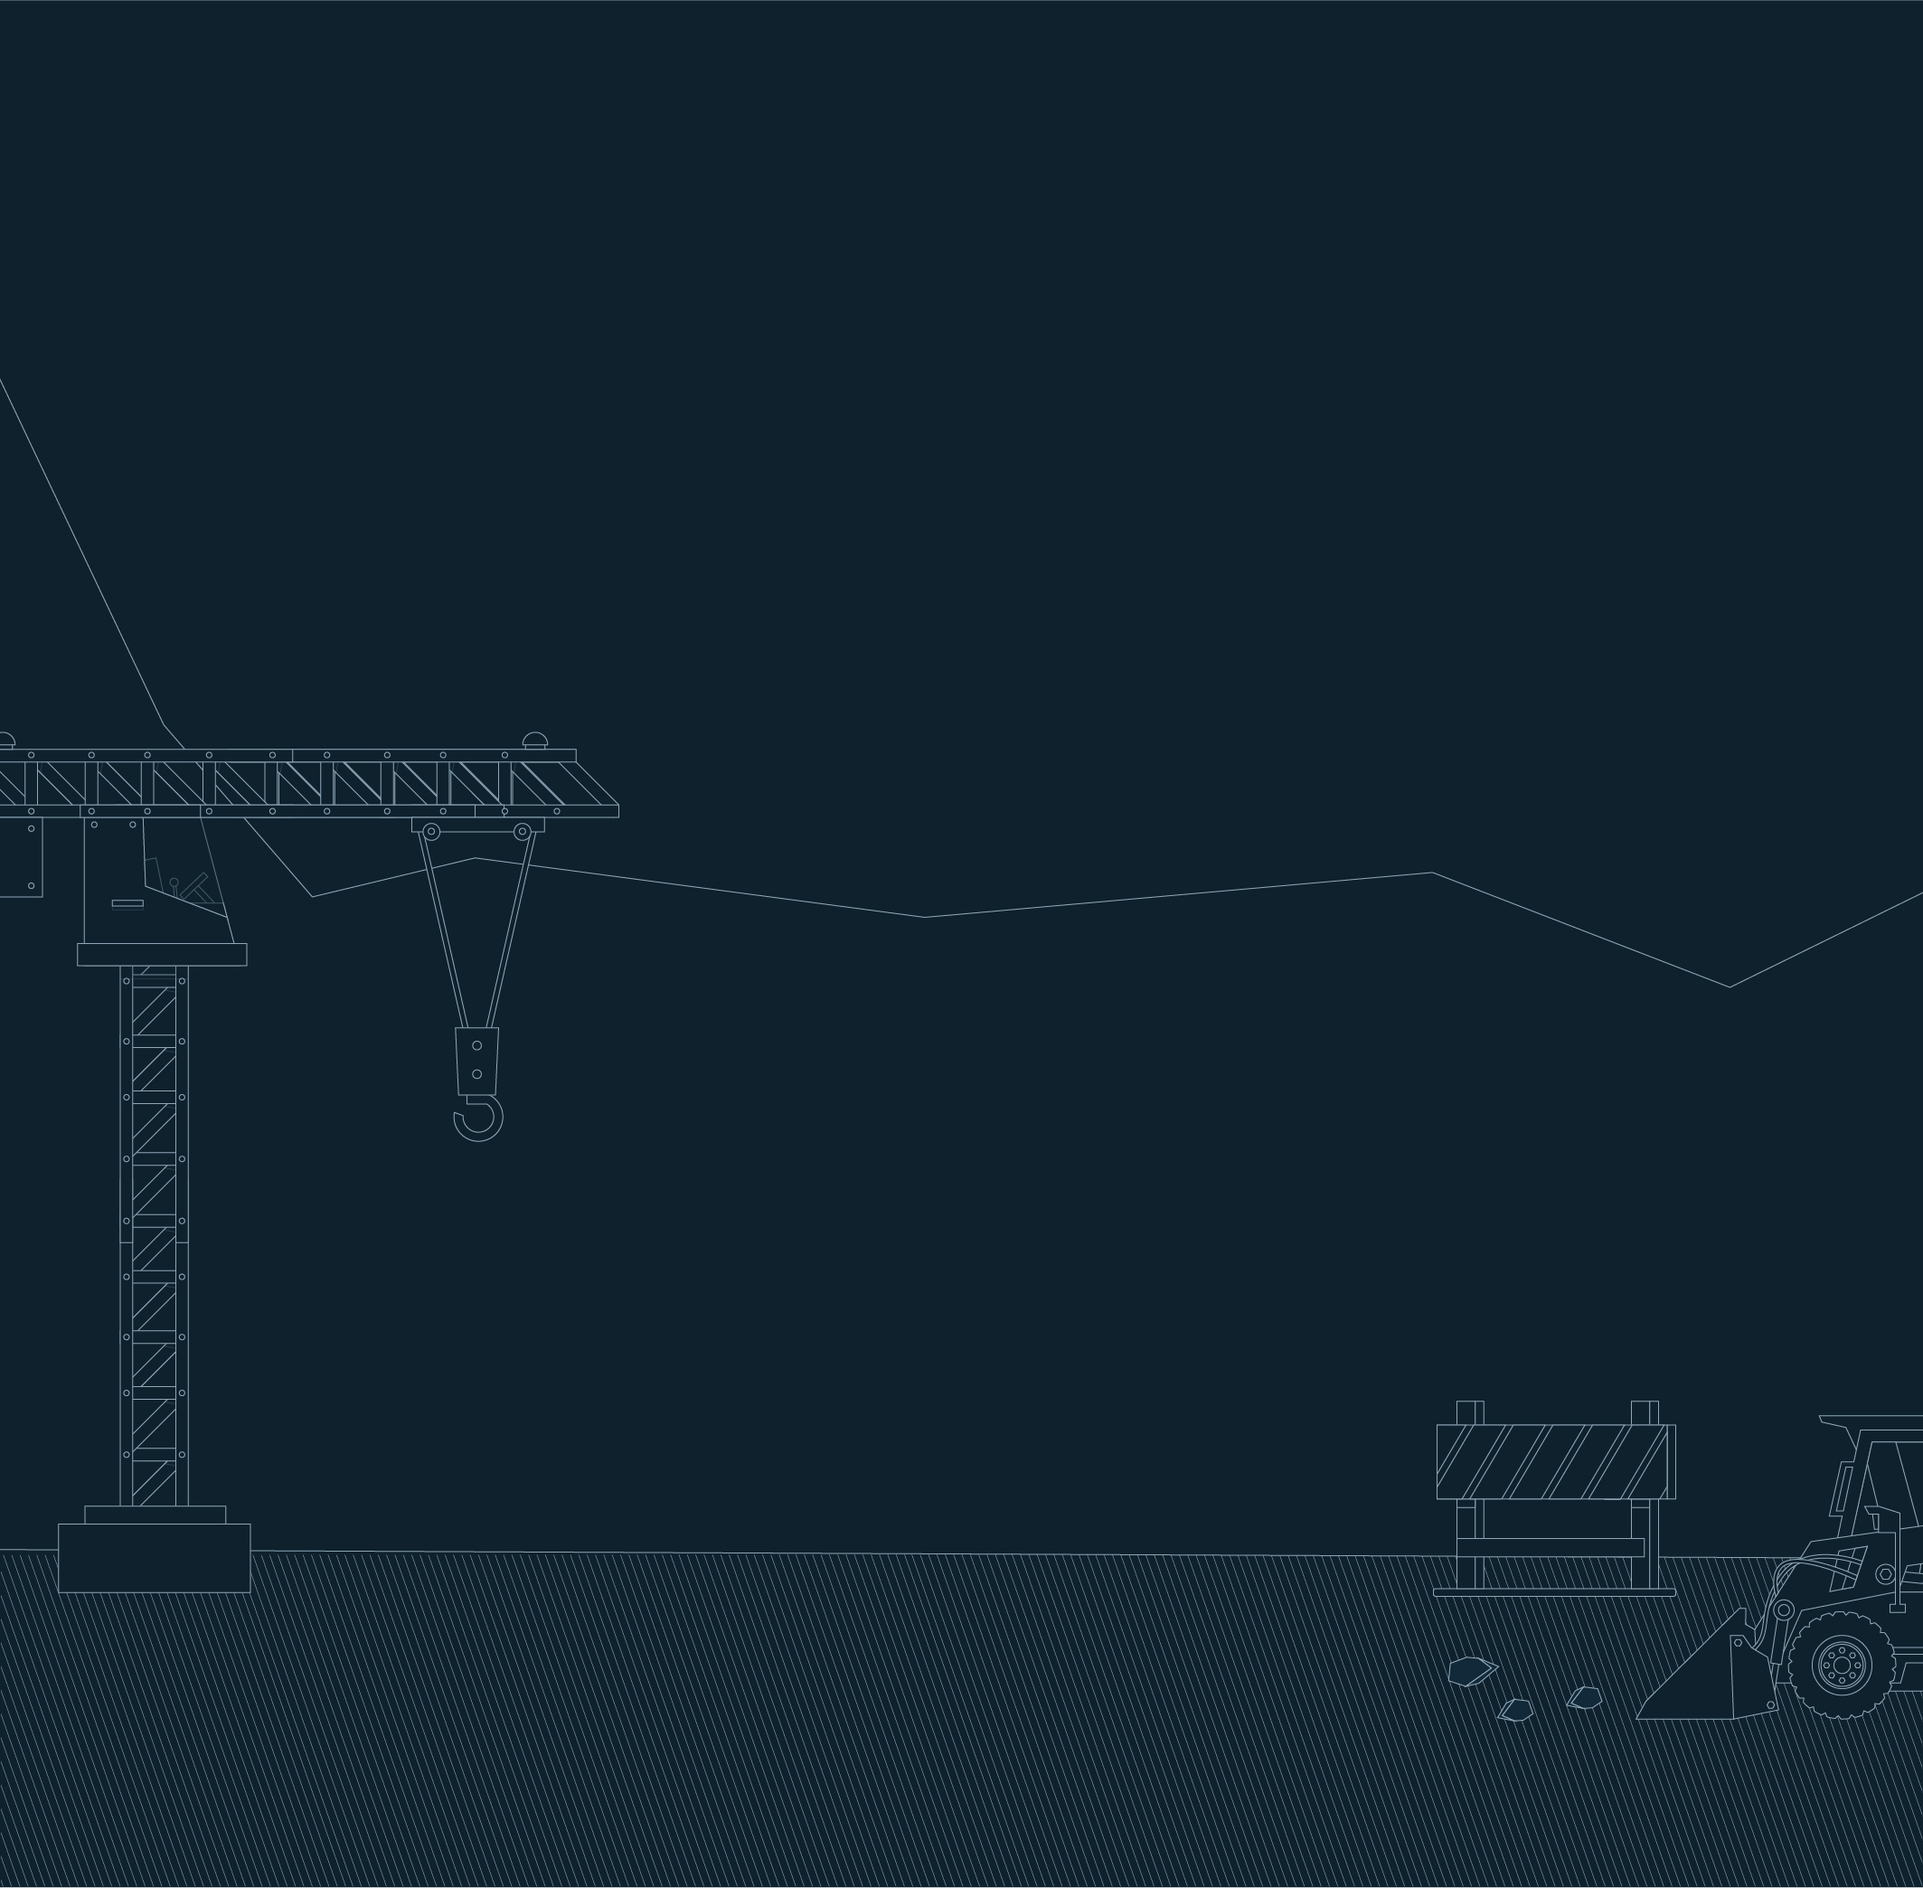
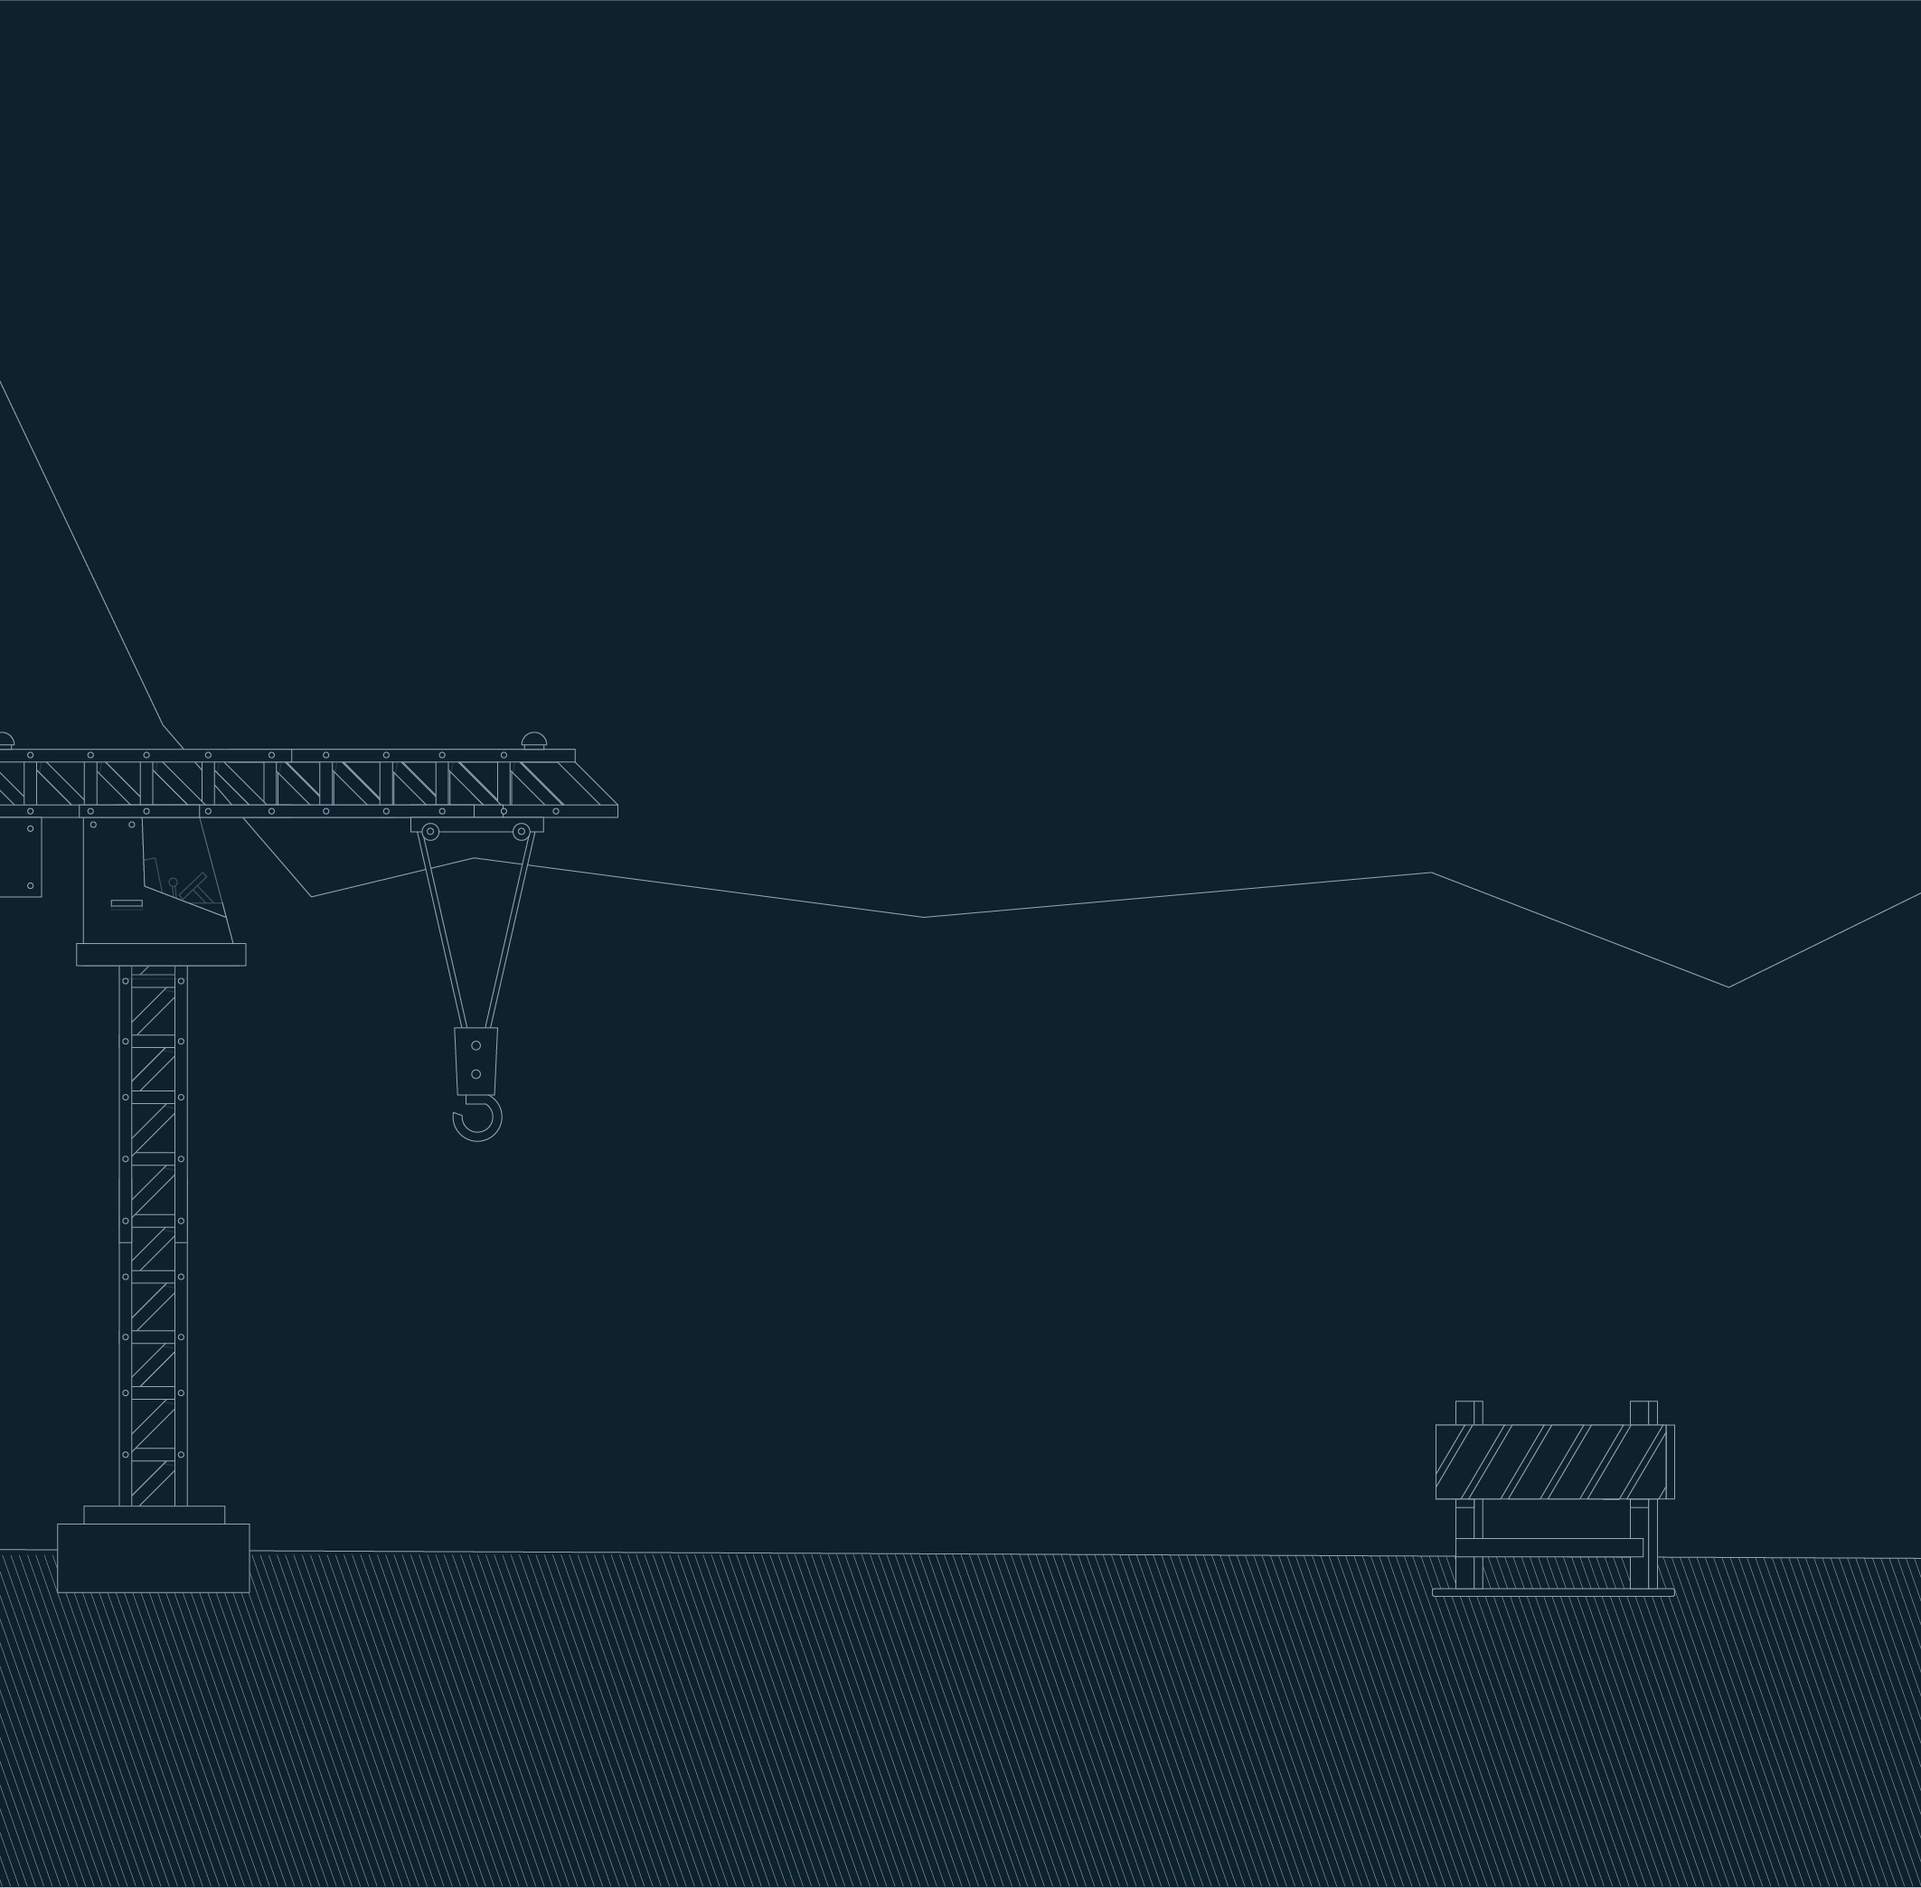
initial commit

diff --git a/css/style.css b/css/style.css
@@ -328,6 +328,7 @@ a:hover{
     right: 0;
     transform: translateY(-50%);
     width: 10.9vw;
+    z-index: 2;
 }
 .about-mid .content-mid, .vision-mid .content-mid{
     position: absolute;
@@ -581,6 +582,7 @@ a:hover{
 .detail-logistic{
     background-image: url(../images/businesses-logistic-second-section-02.jpg);
     background-size: cover;
+    background-position: center;
 }
 .detail-logistic .first-section{
     padding-top: 7.9rem;
@@ -596,6 +598,7 @@ a:hover{
 .proj-mid{
     background-image: url(../images/projects-background-04.jpg);
     background-size: cover;
+    background-position: bottom;
 }
 .proj-mid .first-section .details{
     padding-top: 12rem;
@@ -610,6 +613,13 @@ a:hover{
 .proj-mid .second-section .middle-button{
     border-left: 1px solid #fff;
     border-right: 1px solid #fff;
+}
+.proj-mid .projects-tractor{
+    position: absolute;
+    right: -233px;
+    bottom: 13vh;
+    width: 27vw;
+    transition: none;
 }
 .prevp-top{
     background-image: url(../images/businesses-top-header-02.jpg);

diff --git a/projects.html b/projects.html
@@ -41,6 +41,7 @@
       </div>
     </div> 
     <div class="container-fluid proj-mid">
+      <img class="projects-tractor move-left" src="images/projects-tractor-02.png" alt="">
       <div class="row first-section">
         <div class="col-lg-5 offset-lg-2 details">
           <h3 class="text-white my-lg-4">
